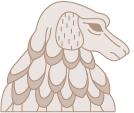
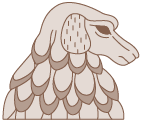
220512 Hell Fix Progress Save

diff --git a/src/main/webapp/resources/js/ch11_2.js b/src/main/webapp/resources/js/ch11_2.js
@@ -29,9 +29,11 @@ $(document).ready(function(){
 		$("#devil").on("click", function() {
 			$("#pot_dead").attr("src", '/resources/object/ch11/2층_항아리사자2.webp');
 			setTimeout(function() { $("#devil").attr("src", '/resources/character/ch11/2층_악마3.webp'); }, 2000);
+			setTimeout(function() { $("#human").attr("src", '/resources/character/ch11/사자_놀람.webp'); }, 2600);
 			setTimeout(function() { $("#devil").attr("src", '/resources/character/ch11/2층_악마1.webp'); }, 3800);
 			setTimeout(function() { $("#pot_dead").attr("src", '/resources/object/ch11/2층_항아리사자1.webp'); }, 4000);
 			setTimeout(function() { $("#dialogue").fadeIn(500); $("#blur").fadeIn(500);}, 4500);
+			setTimeout(function() { $("#human").attr("src", '/resources/character/ch11/사자.webp'); }, 4525);
 			setTimeout(function() { $("#devil").attr("src", '/resources/character/ch11/2층_악마2.webp'); }, 4550);
 		});
 		
@@ -87,7 +89,7 @@ function init() { //화면 초기화
 	var bg4 = $("#background > img:nth-child(4)"); //화살표
 	bg4.width(bg4.prop("naturalWidth") * w);
 	bg4.height(bg4.prop("naturalHeight") * w);
-	bg4.css("left", x - (bg1.width() / 2.0) + 1200 * w);
+	bg4.css("left", x - (bg1.width() / 2.0) + 1280 * w);
 	bg4.css("bottom", $("#hellFireFront").height() + 170 * w);
 
 	var bg5 = $("#background > img:nth-child(5)"); //땅바닥
@@ -122,7 +124,7 @@ function init() { //화면 초기화
 	var bg10 = $("#background > img:nth-child(10)"); //반대 화살표
 	bg10.width(bg10.prop("naturalWidth") * w);
 	bg10.height(bg10.prop("naturalHeight") * w);
-	bg10.css("left", x - (bg1.width() / 2.0) - 950 * w);
+	bg10.css("left", x - (bg1.width() / 2.0) - 900 * w);
 	bg10.css("bottom", bg4.css("bottom"));
 
 	var bg11 = $("#background > img:nth-child(11)"); //2층 항아리 탕 안 사자

diff --git a/src/main/webapp/resources/js/ch11_3.js b/src/main/webapp/resources/js/ch11_3.js
@@ -41,12 +41,15 @@ $(document).ready(function(){
 		
 		$("#devil").on("click", function() {
 				$("#devil").attr("src", '/resources/character/ch11/3층_악마3.webp');
+				setTimeout(function() { $("#human").attr("src", '/resources/character/ch11/사자_눈물.webp'); }, 1000);
 				setTimeout(function() { $("#devil").attr("src", '/resources/character/ch11/3층_악마1.webp'); }, 2000);
+				console.log("사자 눈물");
 				setTimeout(function() { $("#dialogue").fadeIn(500); $("#blur").fadeIn(500); }, 2500);
 				setTimeout(function() { $("#devil").attr("src", '/resources/character/ch11/3층_악마2.webp'); }, 3000);
 		});
 		
 		$("#dialogue").on("click", function() {
+				$("#human").attr("src", '/resources/character/ch11/사자.webp');
 				$("#dialogue").fadeOut(500); $("#blur").fadeOut(500);
 				$("#devil").attr("src", '/resources/character/ch11/3층_악마1.webp');
 			});

diff --git a/src/main/webapp/resources/css/ch11.css b/src/main/webapp/resources/css/ch11.css
@@ -172,7 +172,6 @@ body {
 #arrow {
 	position: absolute;
 	z-index: 4;
-	transform: scale(0.5);
 }
 
 #ground {
